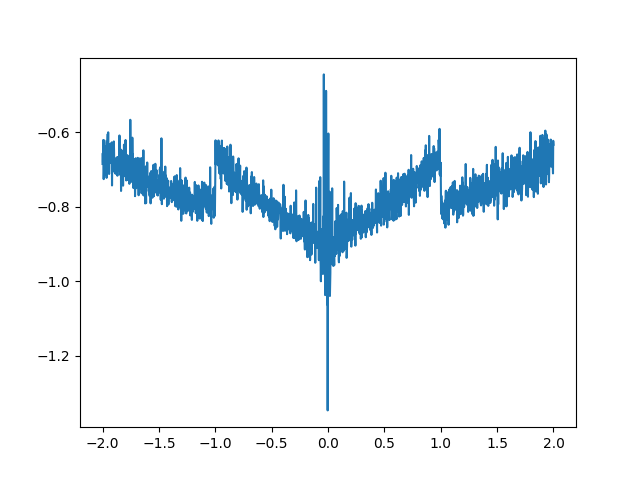
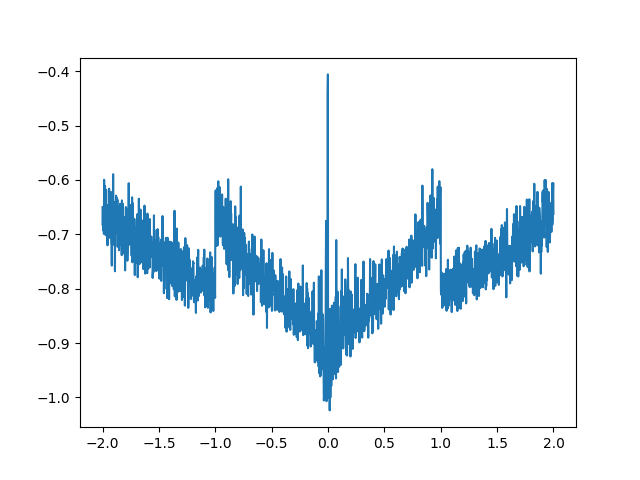
chg drift 0614

diff --git a/tests/customized_noise_pcm.py b/tests/customized_noise_pcm.py
@@ -132,8 +132,11 @@ class TestNoiseModel(BaseNoiseModel):
         g_relative = clamp(torch_abs(g_target / self.g_max), min=_ZERO_CLIP)
 
         # gt should be normalized wrt g_max
-        # mu_drift = (-0.0155 * log(g_relative) + 0.0244).clamp(min=0.049, max=0.1)
-        mu_drift = (-0.1 * g_relative + 0.2)
+        mu_orig = (-0.0155 * log(g_relative) + 0.0244).clamp(min=0.049, max=0.1)
+        mu_linear = (-0.1 * g_relative + 0.2) 
+        mu_const = 0.1
+        mu_drift = mu_const
+        
         sig_drift = (-0.0125 * log(g_relative) - 0.0059).clamp(min=0.008, max=0.045)
         nu_drift = torch_abs(mu_drift + sig_drift * randn_like(g_relative)).clamp(min=0.0)
 

diff --git a/tests/customize_drift.py b/tests/customize_drift.py
@@ -52,10 +52,10 @@ weight_change_ratio = weight_change_vec / (init_weights_vec)
 
 # plotting
 plt.plot(init_weights_vec, weight_change_vec)
-plt.savefig('weight_disparity_test.png')
+plt.savefig('weight_disparity_const.png')
 plt.clf()
 
 plt.plot(init_weights_vec, weight_change_ratio)
-plt.savefig('weight_disparity_ratio_test.png')
+plt.savefig('weight_disparity_ratio_const.png')
 plt.clf()
 
